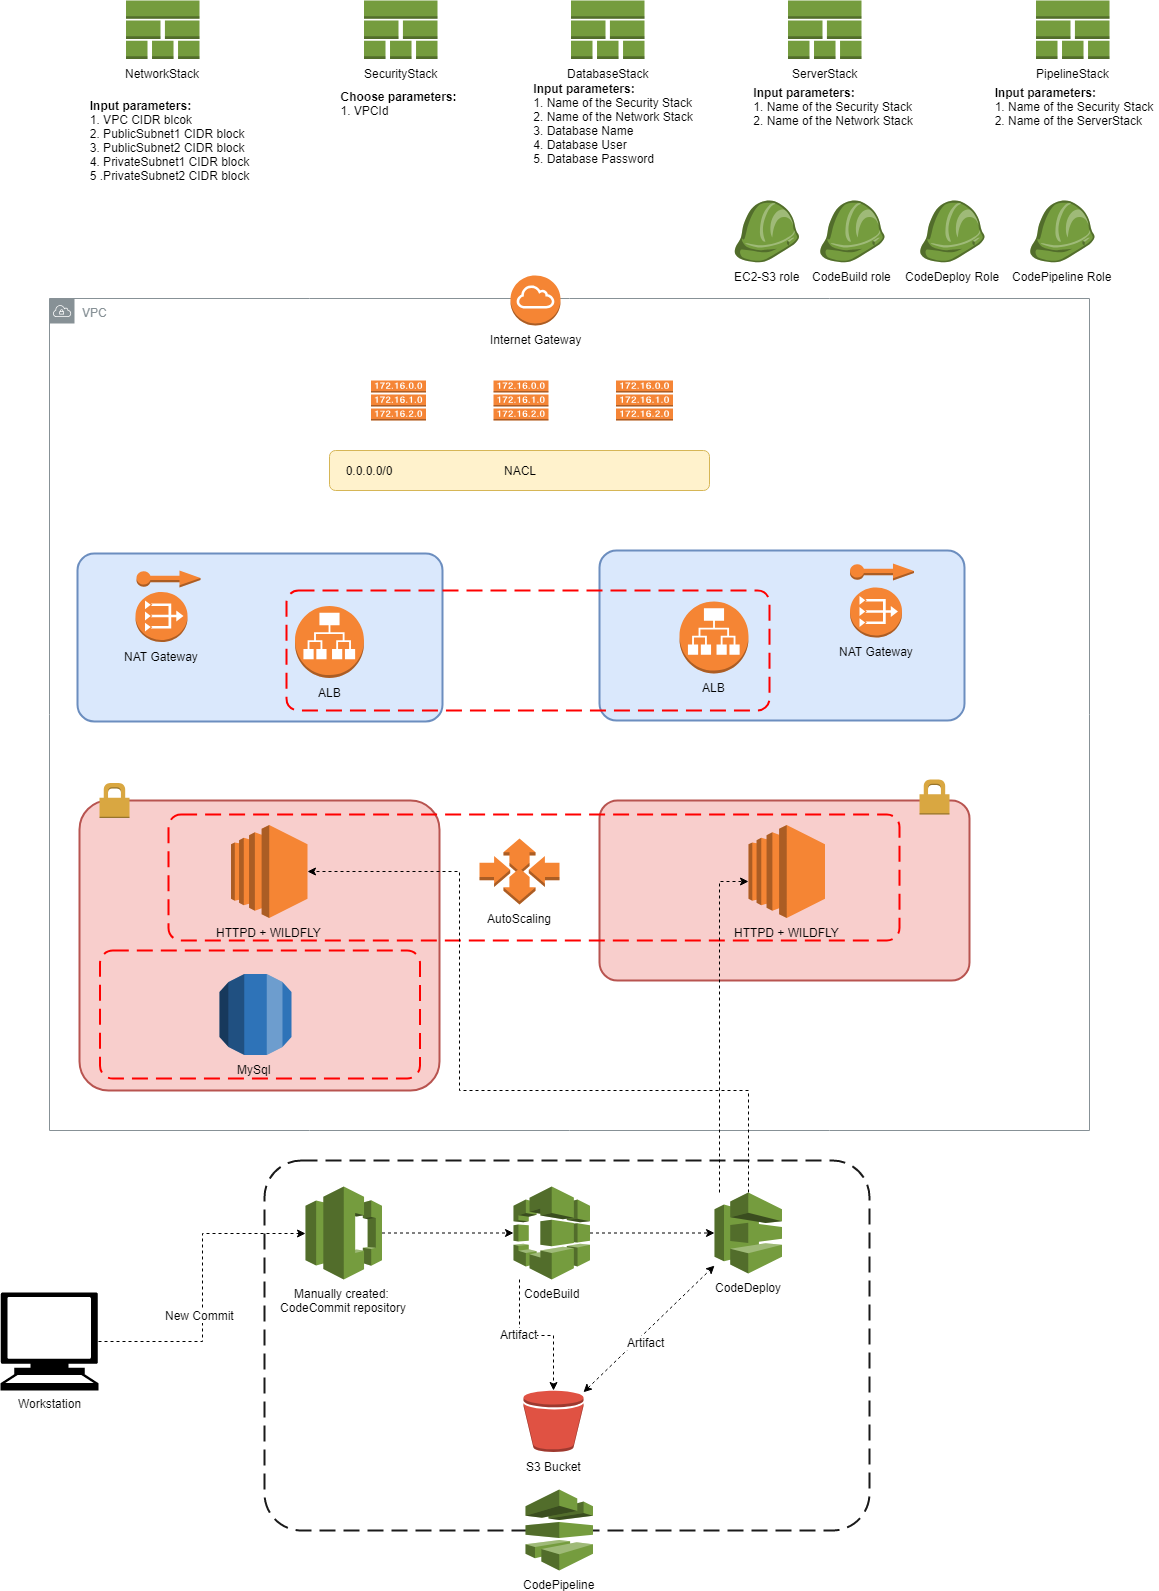
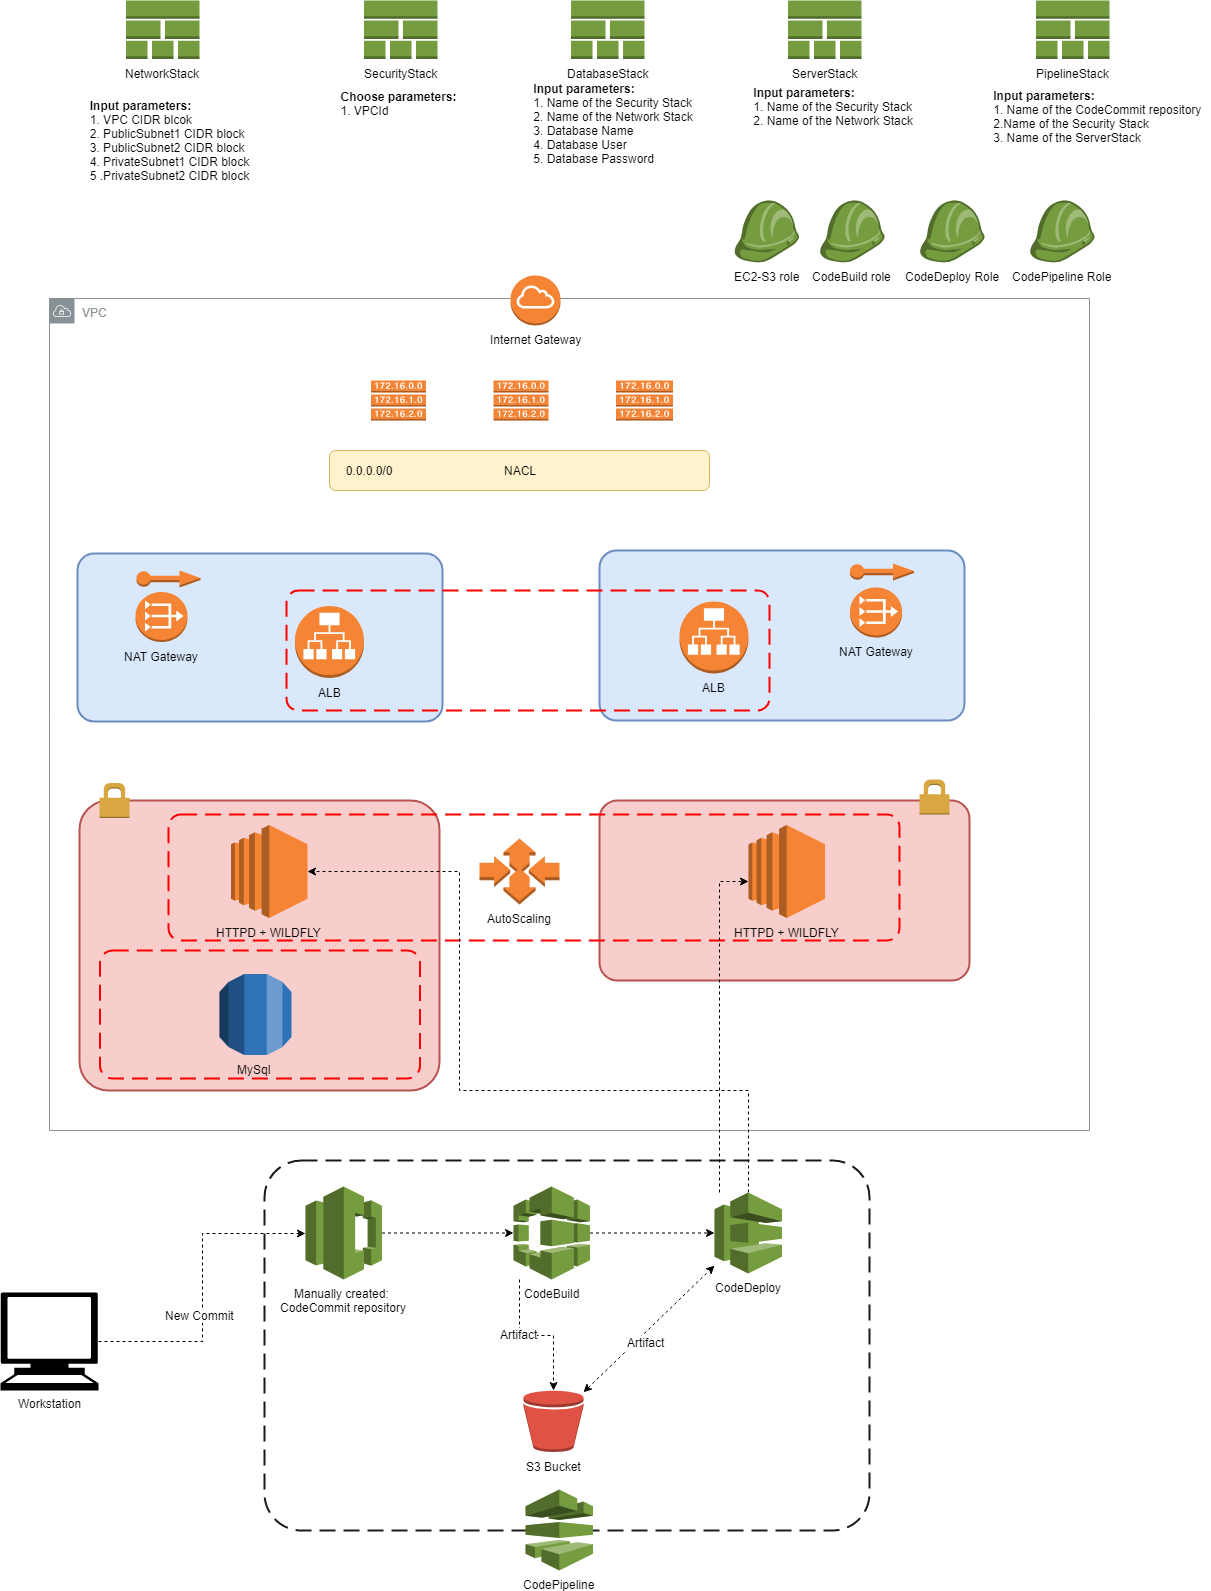
adding output value architecture, more refactoring

diff --git a/README.md b/README.md
@@ -1,13 +1,25 @@
 # AWS full infrastructure stack
 CloudFormation templates for Spring application and infrastructure delivery automation in AWS.
 
-1. Create Git repository in "CodeCommit" for Petclinic application. Source code [here](https://github.com/spring-projects/spring-petclinic)
-2. Configure the application to use MySql as its database (Connection and table creation)
-3. Launch NetworkStack.yaml -> Creates VPC network: 2 public and 2 private subnes, 1 Internet Gateway, 2 NAT gateways + 2 elastic IPs, 2 private and 1 public route tables.
-4. Launch SecurityStack.yaml -> Creates VPC security groups: 1 for ALBs, 1 for EC2 instances, 1 for databases. 1 Intance IAM role for EC2 access to S3 bucket.
-5. Launch DatabaseStack.yaml -> Creates RDS instance and its replica based on MySql engine in your VPC.
-6. Launch ServerStack.yaml -> Creates ALB, AutoScaling group with 2 EC2 Instances (HTTPD as webfront -> reverse proxy to localhost Wildfly app server).
+1. Create Git repository in "CodeCommit" for Petclinic application. Source code [here](https://github.com/spring-projects/spring-petclinic).
 
+2. Configure the application to use MySql as its database (Connection and table creation).
+
+3. Launch NetworkStack.yaml -> Creates VPC network: 2 public and 2 private subnes, 1 Internet Gateway, 2 NAT gateways + 2 elastic IPs, 2 private and 1 public route tables.
+
+4. Launch SecurityStack.yaml -> Creates VPC security groups: 1 for ALBs (HTTP - port: 80), 1 for EC2 instances (HTTP - port: 80), 1 for databases. 1 Intance IAM role for EC2 access to S3 bucket. 3 IAM roles for CodeBuild, CodeDeploy, CodePipeline resources.
+
+5. Launch DatabaseStack.yaml -> Creates micro 5GB RDS instance and its replica based on MySql engine in your VPC - private subnet.
+
+6. Launch ServerStack.yaml -> Creates ALB and its target group, AutoScaling group with 2 micro EC2 Instances (AWS Linux based image, installs HTTPD as webfront -> reverse proxy to localhost Wildfly app server).
+
+7. Launch PipelineStack.yaml -> Creates CodeBuild project, CodeDeploy project, S3 bucket for the artifacts. Adds these projects to CodePipeline Project. 
+
+8. Commit your changes to application or run CodePipeline project and enjoy!
+
+
+# Stack export value distribution overview
+![ResourceArchitecture](https://github.com/janisliepins/PetclinicCloudFormation/blob/develop/aws_cloudformation_architecture/StackValueExportFlow.png)
 
 # NetworkStack architecture overview
 ![ResourceArchitecture](https://github.com/janisliepins/PetclinicCloudFormation/blob/develop/aws_cloudformation_architecture/NetworkStack.png)
@@ -23,4 +35,6 @@ CloudFormation templates for Spring application and infrastructure delivery auto
 
 # NetworkStack + SecurityStack + DatabaseStack + PipelineStack architecture overview
 ![ResourceArchitecture](https://github.com/janisliepins/PetclinicCloudFormation/blob/develop/aws_cloudformation_architecture/PipelineStack.png)
+
+
 
